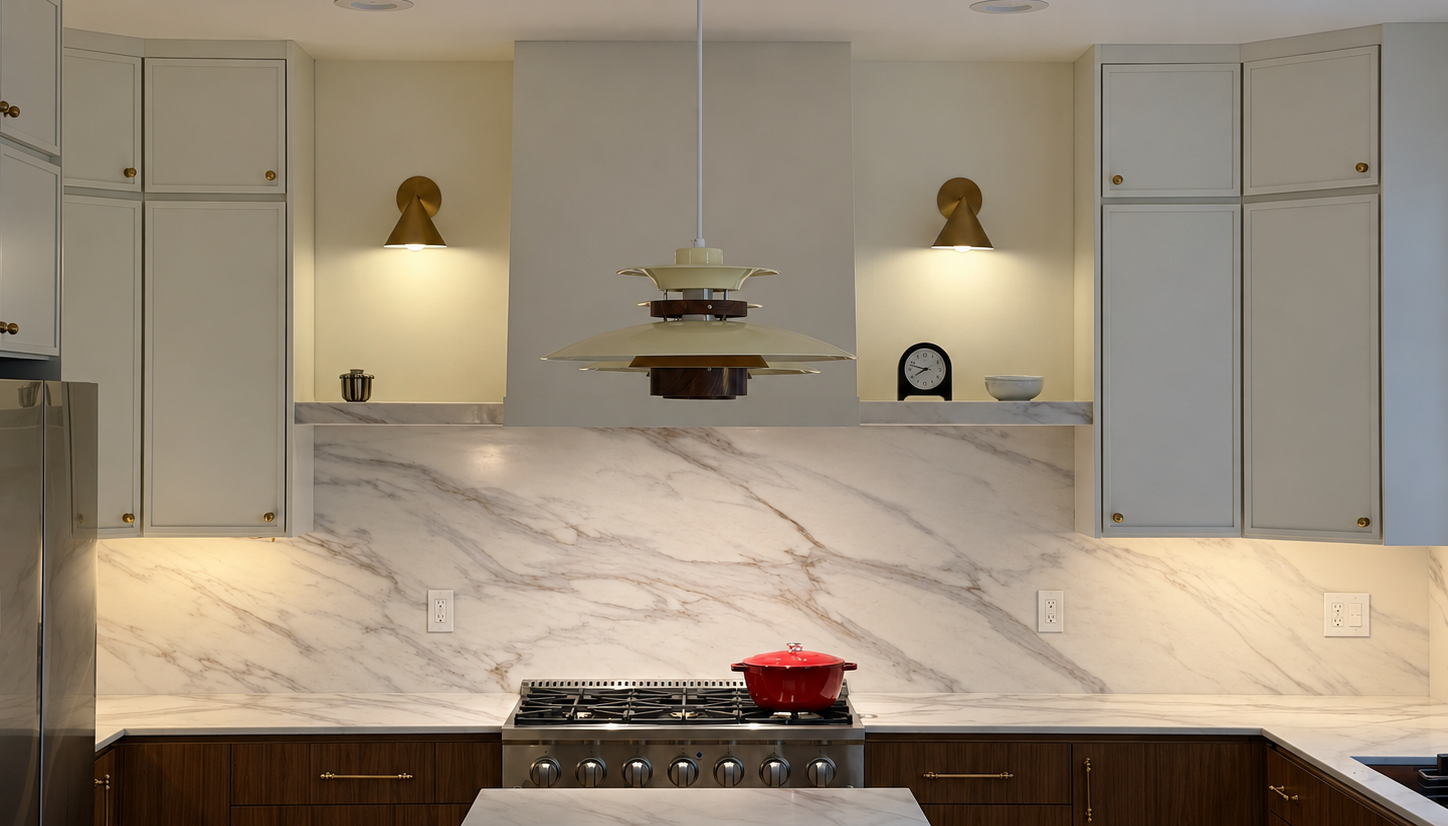
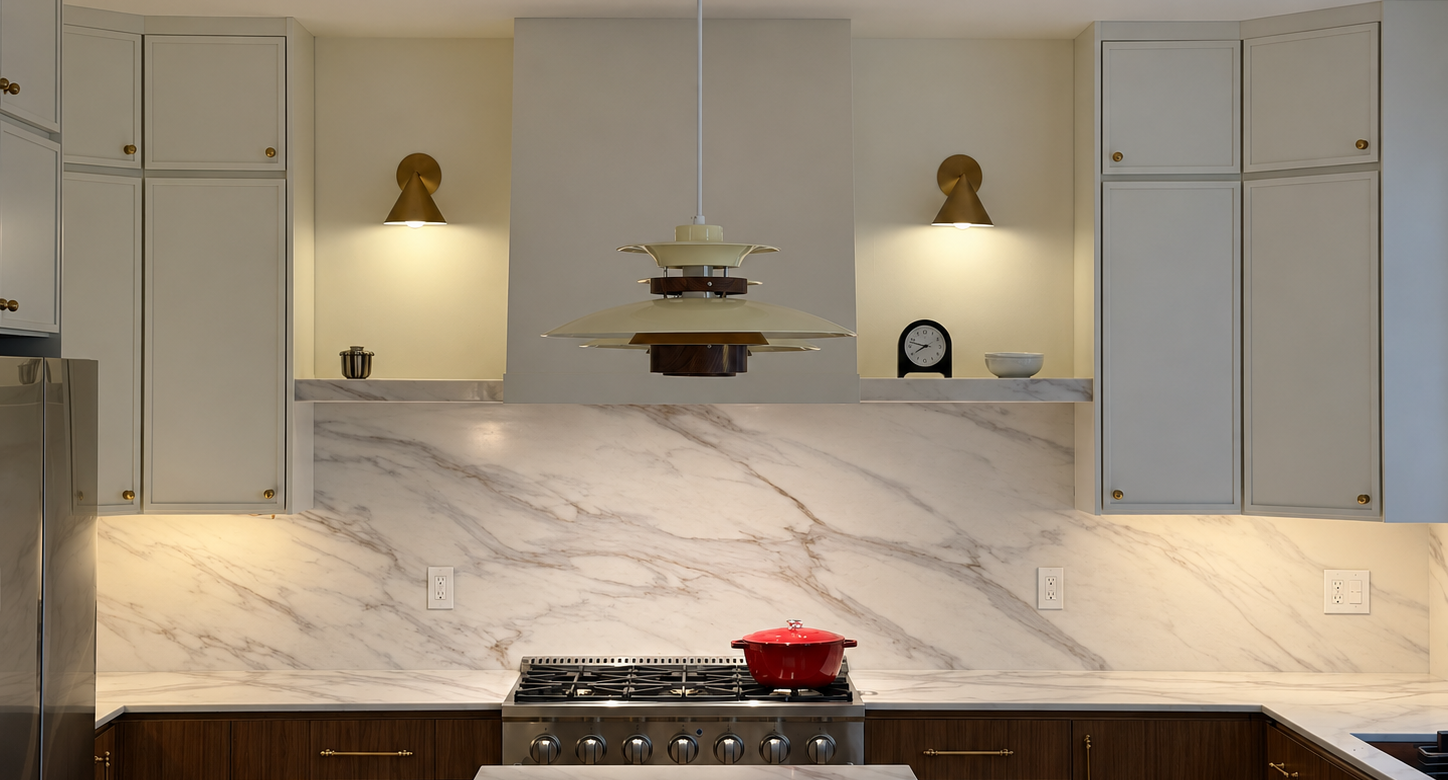
Tighten bottom crop to fully exclude island

diff --git a/garden/index.html b/garden/index.html
@@ -9,7 +9,7 @@
   <button class="close kitchen-close" aria-label="Close kitchen project" autofocus>×</button>
   <article>
     <header class="kitchen-hero">
-      <img src="%BASE_URL%photos/kitchen-hero-no-island.png" width="1448" height="826" alt="Charlene’s finished kitchen">
+      <img src="%BASE_URL%photos/kitchen-hero-no-island.png" width="1448" height="780" alt="Charlene’s finished kitchen">
     </header>
     <div class="kitchen-copy">
       <p class="kitchen-eyebrow">Living Cabin · Renovation</p>
